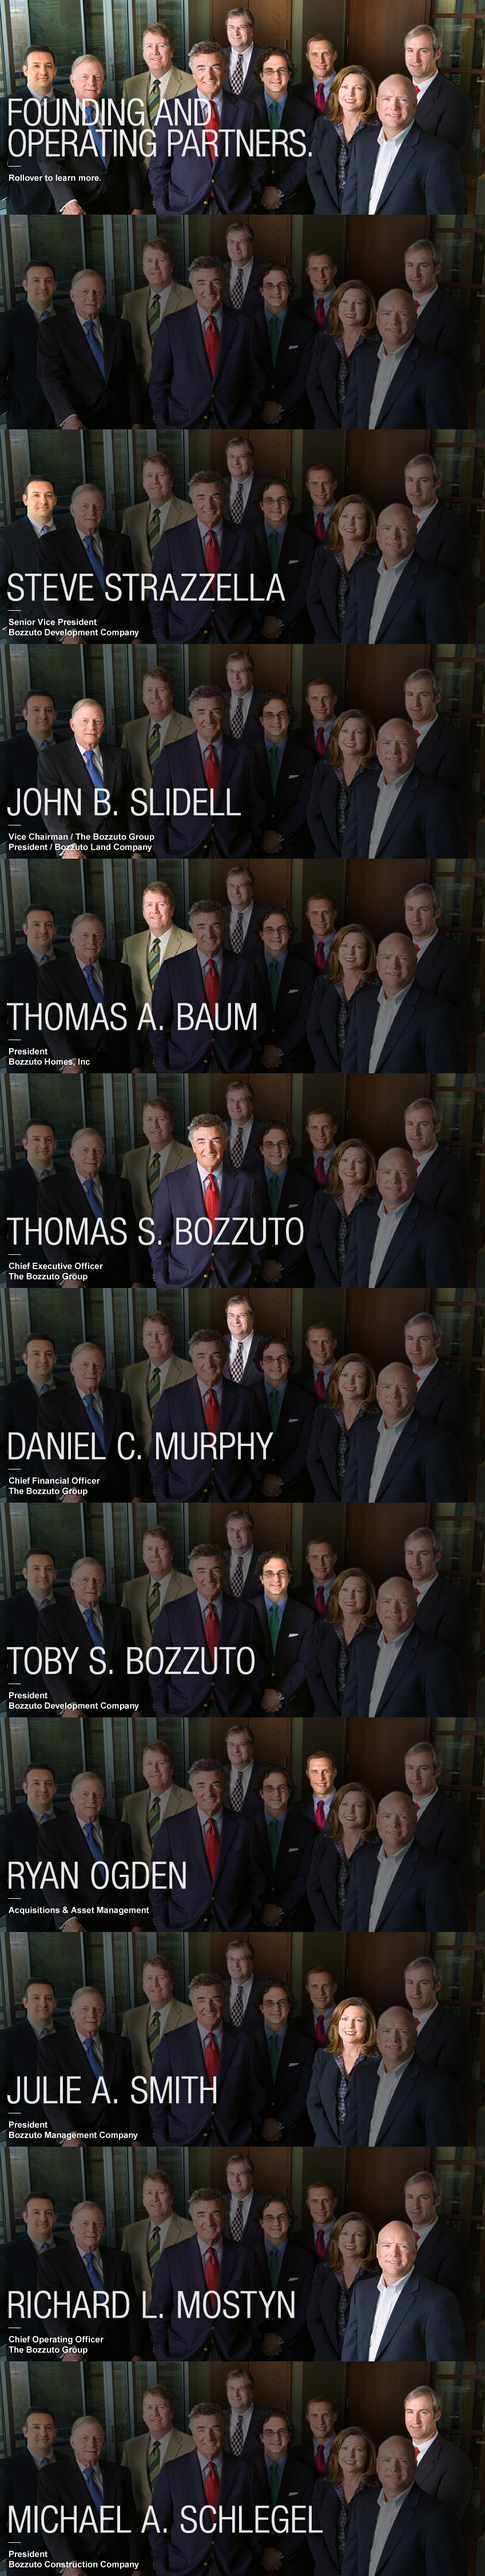
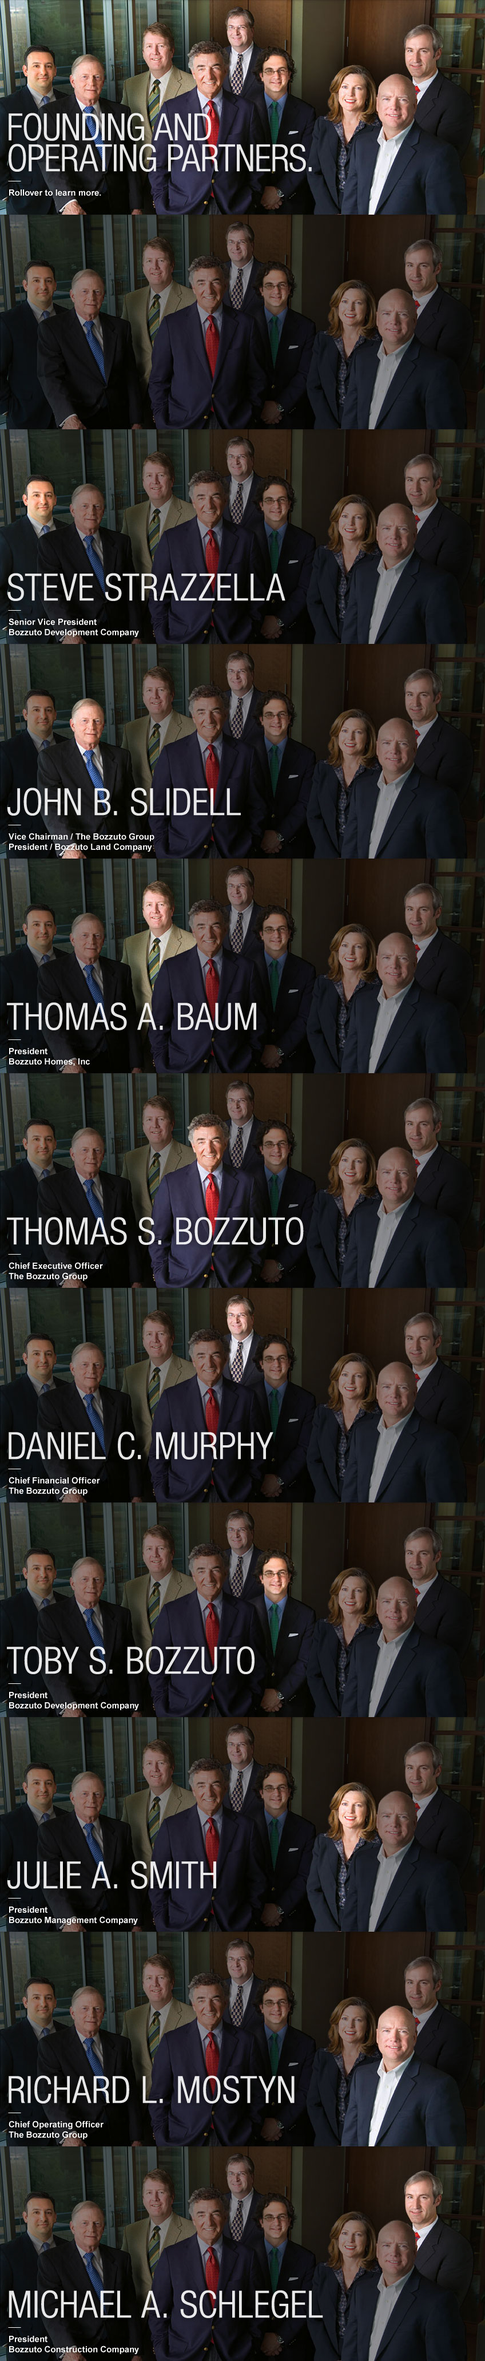
Remove Ryan O. from Bozzuto Leadership page, resolves #585

diff --git a/public/stylesheets/screen.css b/public/stylesheets/screen.css
@@ -3275,7 +3275,6 @@ div.wysiwyg ul li {
     .partner-portrait-links .portrait-daniel-c  .hit1 { height: 100px; width:  80px; left: 390px; top:   0px; }
     .partner-portrait-links .portrait-daniel-c  .hit2 { height: 175px; width:  60px; left: 390px; top:   0px; }
     .partner-portrait-links .portrait-toby-s    .hit1 { height: 375px; width:  95px; left: 455px; top:   0px; }
-    .partner-portrait-links .portrait-ryan-o    .hit1 { height: 180px; width:  80px; left: 510px; top:   0px; }
     .partner-portrait-links .portrait-julie-a   .hit1 { height: 375px; width:  75px; left: 590px; top:   0px; }
     .partner-portrait-links .portrait-julie-a   .hit2 { height: 195px; width:  40px; left: 550px; top: 180px; }
     .partner-portrait-links .portrait-richard-l .hit1 { height: 375px; width: 155px; left: 665px; top:   0px; }
@@ -3301,10 +3300,9 @@ div.wysiwyg ul li {
     .partner-portrait-images .portrait-thomas-s  { background-position: 0 -1875px; }
     .partner-portrait-images .portrait-daniel-c  { background-position: 0 -2250px; }
     .partner-portrait-images .portrait-toby-s    { background-position: 0 -2625px; }
-    .partner-portrait-images .portrait-ryan-o    { background-position: 0 -3000px; }
-    .partner-portrait-images .portrait-julie-a   { background-position: 0 -3375px; }
-    .partner-portrait-images .portrait-richard-l { background-position: 0 -3750px; }
-    .partner-portrait-images .portrait-michael-a { background-position: 0 -4125px; }
+    .partner-portrait-images .portrait-julie-a   { background-position: 0 -3000px; }
+    .partner-portrait-images .portrait-richard-l { background-position: 0 -3375px; }
+    .partner-portrait-images .portrait-michael-a { background-position: 0 -3750px; }
   /* @end */
 
   /* @group --bios */
